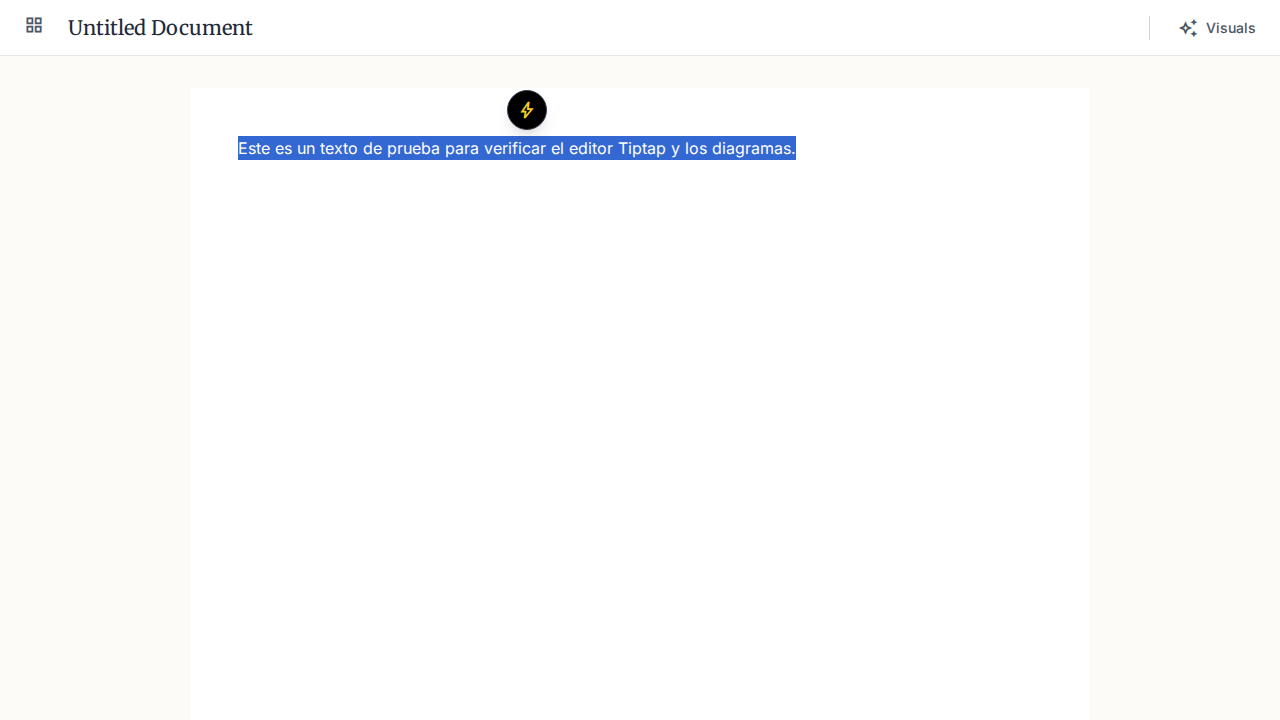
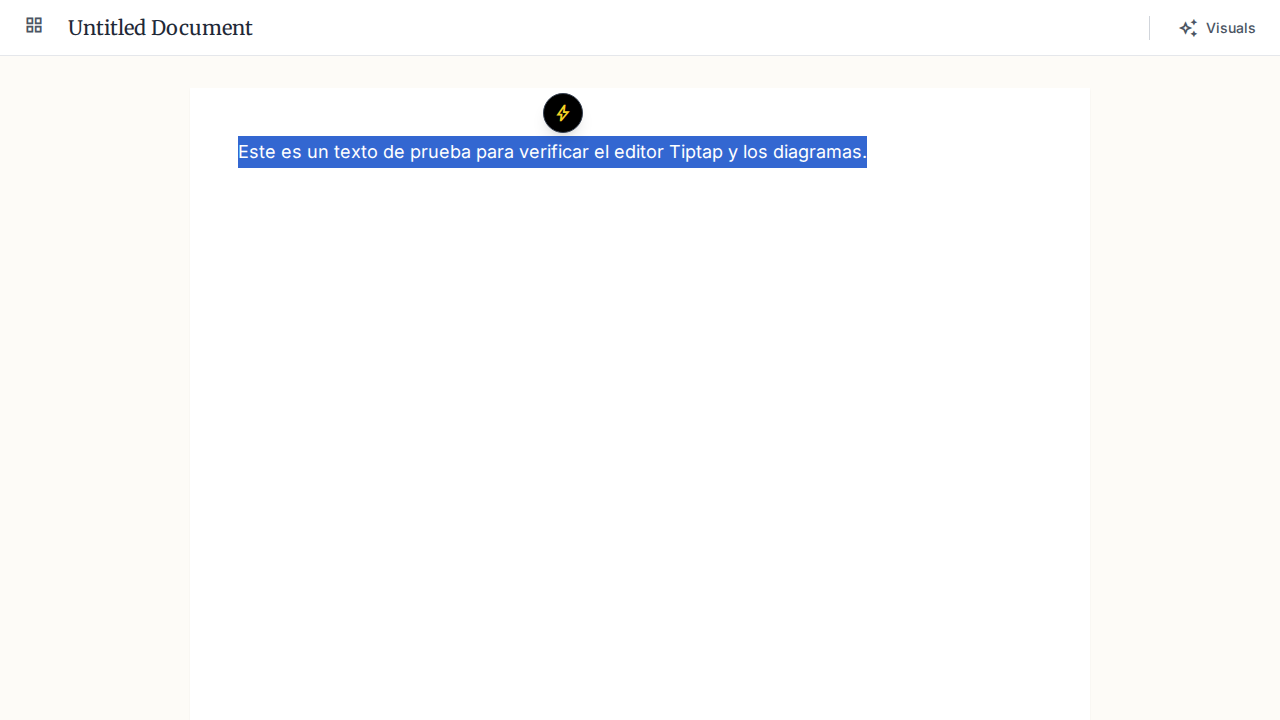
Fix diagram data persistence and restore typography styles
- Added `sourceText` to DiagramData to persist original prompt for regeneration.
- Updated `Workspace.tsx` to use persisted text when switching diagram styles.
- Added Tailwind Typography plugin to `index.html`.
- Added `font-serif` to Tiptap editor for consistent styling.
- Installed missing export dependencies (`html-to-image`, `downloadjs`).

Changed region(s): [[0.1875, 0.1222, 0.6875, 0.2444]]

diff --git a/views/Workspace.tsx b/views/Workspace.tsx
@@ -54,7 +54,7 @@ export const Workspace: React.FC<WorkspaceProps> = ({ onNavigate }) => {
     content: localStorage.getItem('trazo_editor_content') || '',
     editorProps: {
       attributes: {
-        class: 'prose prose-lg focus:outline-none max-w-none',
+        class: 'prose prose-lg focus:outline-none max-w-none font-serif',
       },
     },
     onUpdate: ({ editor }) => {
@@ -95,7 +95,8 @@ export const Workspace: React.FC<WorkspaceProps> = ({ onNavigate }) => {
 
         const finalData = {
             ...result,
-            type: result.type as any || 'flowchart'
+            type: result.type as any || 'flowchart',
+            sourceText: text // Persist original source text
         };
 
         if (selectedDiagram && forceType) {
@@ -165,14 +166,8 @@ export const Workspace: React.FC<WorkspaceProps> = ({ onNavigate }) => {
       // Let's assume re-generation for now as it's safer for "Infographic" vs "Flowchart" logic which differs in structure.
 
       if (selectedDiagram) {
-           // We need the source text. We don't store source text in diagram data currently.
-           // We can assume the "context" is lost or we use the node texts.
-           // Let's fallback to "Please select text" if no text source.
-           // OR: Just re-use the nodes and re-layout?
-           // The prompt implies `runAgentPipeline` handles it.
-
-           // Hack: Construct text from nodes
-           const text = selectedDiagram.data.nodes.map(n => n.text).join(". ");
+           // Use persisted source text if available, otherwise reconstruct from nodes
+           const text = selectedDiagram.data.sourceText || selectedDiagram.data.nodes.map(n => n.text).join(". ") || "Texto no disponible";
            runAgentPipeline(text, type);
       } else {
           // No diagram selected, maybe text selected?

diff --git a/index.html b/index.html
@@ -4,7 +4,7 @@
     <meta charset="utf-8" />
     <meta name="viewport" content="width=device-width, initial-scale=1.0" />
     <title>Trazo</title>
-    <script src="https://cdn.tailwindcss.com"></script>
+    <script src="https://cdn.tailwindcss.com?plugins=typography"></script>
     <link rel="preconnect" href="https://fonts.googleapis.com" />
     <link rel="preconnect" href="https://fonts.gstatic.com" crossorigin />
     <link

diff --git a/types.ts b/types.ts
@@ -41,4 +41,5 @@ export interface DiagramData {
   nodes: DiagramNode[];
   edges: DiagramEdge[];
   type: 'flowchart' | 'mindmap' | 'cycle' | 'hierarchy' | 'infographic';
+  sourceText?: string;
 }

diff --git a/verification/verify_typography.py b/verification/verify_typography.py
@@ -1,0 +1,47 @@
+from playwright.sync_api import sync_playwright
+
+def verify_typography(page):
+    # Use new port
+    page.goto("http://localhost:3001")
+
+    # Handle Login if present
+    if page.is_visible("text=Continuar con Google"):
+        page.click("text=Continuar con Google")
+        page.wait_for_timeout(1000)
+
+    # We are on Dashboard now. Need to click "Nuevo Trazo"
+    if page.is_visible("text=Nuevo Trazo"):
+         page.click("text=Nuevo Trazo")
+
+    # Wait for editor
+    page.wait_for_selector(".ProseMirror", timeout=20000)
+
+    editor = page.locator(".ProseMirror")
+    editor.click()
+
+    # Clear existing content
+    editor.press("Control+a")
+    editor.press("Backspace")
+
+    # Type markdown header
+    editor.type("# H1 Header Typography Test")
+    editor.press("Enter")
+    editor.type("This is a standard paragraph with **bold text**.")
+
+    # Wait a bit for render
+    page.wait_for_timeout(1000)
+
+    # Take screenshot
+    page.screenshot(path="verification/typography_test.png")
+
+if __name__ == "__main__":
+    with sync_playwright() as p:
+        browser = p.chromium.launch()
+        page = browser.new_page()
+        try:
+            verify_typography(page)
+        except Exception as e:
+            print(f"Error: {e}")
+            page.screenshot(path="verification/typography_error_2.png")
+        finally:
+            browser.close()
